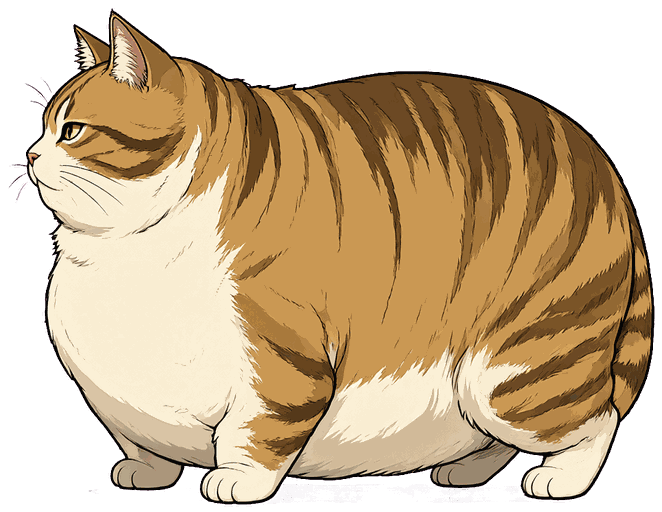
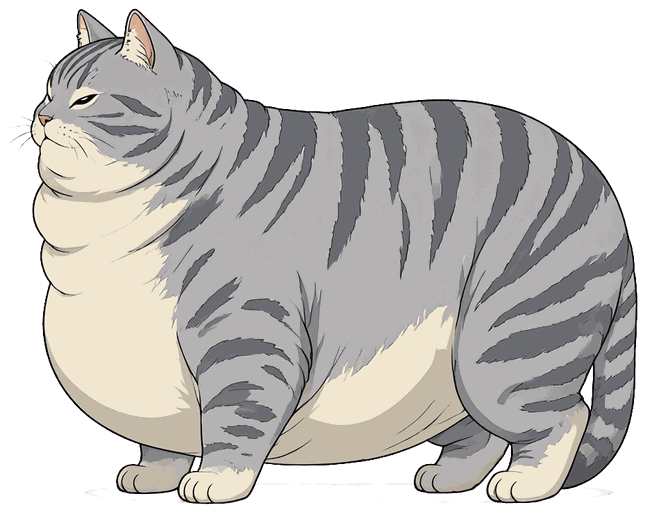
food sprites (cream outline ring for dark-bg visibility) + gray-locked tabby chain 20-80lb
- 9 food item sprites drawn at 40px in drawItems (emoji fallback kept); items carry content key; power glow widened
- tabby chain drifted tan in the ramp regen: color-lock prompt (COOL GRAY, NOT tan/brown/orange) + drift words in negative; ramp stays monotonic
- gen_sprites.py: food + tabby jobs

diff --git a/js/main.js b/js/main.js
@@ -255,7 +255,7 @@ function onBarrelBurst(barrel, ball) {
   game.items.push({
     x: barrel.x, y: barrel.y,
     vx: (Math.random() - 0.5) * 150, vy: (-60 - Math.random() * 90) * pop,
-    r: 9, state: 'fall', cal: c.cal, icon: c.icon, name: c.name,
+    r: 9, state: 'fall', cal: c.cal, icon: c.icon, name: c.name, content: barrel.content,
     grav: c.grav, drift: c.drift, power: c.power || null,
     t: 0, gone: false,
   });
@@ -601,12 +601,18 @@ function drawItems() {
   ctx.textAlign = 'center'; ctx.textBaseline = 'middle';
   for (const it of game.items) {
     if (it.power) { // golden glow for power-ups
-      ctx.fillStyle = 'rgba(255,193,7,0.35)';
-      ctx.beginPath(); ctx.arc(it.x, it.y, 15, 0, 7); ctx.fill();
+      ctx.fillStyle = 'rgba(255,193,7,0.45)';
+      ctx.beginPath(); ctx.arc(it.x, it.y, 17, 0, 7); ctx.fill();
     }
     // tiny shadow
     ctx.fillStyle = 'rgba(0,0,0,0.10)';
     ctx.beginPath(); ctx.ellipse(it.x, it.y + 10, 8, 3, 0, 0, 7); ctx.fill();
+    const key = 'food_' + it.content;
+    if (typeof Assets !== 'undefined' && Assets.ok(key)) {
+      const im = Assets.imgs[key], s = 40;
+      ctx.drawImage(im, it.x - s / 2, it.y - s / 2, s, s);
+      continue;
+    }
     ctx.fillText(it.icon, it.x, it.y);
   }
   ctx.textBaseline = 'alphabetic';

diff --git a/js/cats.js b/js/cats.js
@@ -6,7 +6,9 @@
 // Prop sprites (barrels, bowl, yarn, shooter, kitchen bg). Per-key readiness.
 const ASSET_KEYS = ['bowl', 'yarn', 'shooter', 'kitchen_bg',
   'barrel_kibble', 'barrel_salmon', 'barrel_tuna', 'barrel_broccoli', 'barrel_celery',
-  'barrel_multi', 'barrel_wide', 'barrel_slow', 'barrel_magnet'];
+  'barrel_multi', 'barrel_wide', 'barrel_slow', 'barrel_magnet',
+  'food_kibble', 'food_salmon', 'food_tuna', 'food_broccoli', 'food_celery',
+  'food_multi', 'food_wide', 'food_slow', 'food_magnet'];
 const Assets = {
   imgs: (typeof Image === 'function') ? Object.fromEntries(ASSET_KEYS.map(k => {
     const im = new Image();

diff --git a/tools/gen_sprites.py b/tools/gen_sprites.py
@@ -184,9 +184,68 @@ def props():
     print('kitchen bg done')
     print('PROPS DONE')
 
+def food():
+    ITEMS = {
+      'kibble':   'a small pile of golden-brown kibble pellets, some scattered',
+      'salmon':   'a pink-orange salmon fillet with white flakes',
+      'tuna':     'a plump blue tuna fish',
+      'broccoli': 'a green broccoli head with thick stalk',
+      'celery':   'three long green celery stalks',
+      'multi':    'a glowing golden five-point star radiating light',
+      'wide':     'a golden stone bridge arch emblem glowing warm',
+      'slow':     'an antique brass pocket clock with glowing hands',
+      'magnet':   'a red horseshoe magnet crackling with blue sparks',
+    }
+    for i, (key, desc) in enumerate(ITEMS.items()):
+        prompt = ('Game asset sprite. A single crisp icon of ' + desc +
+          ', bold dark Attack on Titan anime linework, gritty cel shading, thick cream-colored outline ring around the item for visibility, '
+          'centered, isolated on solid pure magenta background, no scenery, no gradient, no shadow')
+        out = t2i(prompt, seed=6100 + i)
+        fetch(*out, f'assets/raw/food_{key}.png')
+        prep(f'assets/raw/food_{key}.png', f'assets/food_{key}.png', 48)
+        from PIL import Image
+        im = Image.open(f'assets/food_{key}.png').convert('RGBA')
+        im.quantize(colors=128, method=Image.FASTOCTREE).save(f'assets/food_{key}.png', optimize=True)
+        print(f'food {key} done')
+    print('FOOD DONE')
+
+def tabby_gray():
+    global NEG
+    NEG = ('basic, simple, 3D, duplicated limbs, duplicated legs, six legs, more than four legs, too many eyes, multiple heads, '
+           'skinny, thin, small, tiny, frail, background scenery, gradient background, shadow on the background, photorealistic, text, watermark, multiple cats, '
+           'tan fur, brown fur, orange fur, ginger fur, yellow fur, warm beige fur')
+    RAMP = {
+     20: 'a chubby cat, round belly slightly low to the ground, plump cheeks, walks normally, clearly healthy not enormous',
+     30: 'a clearly fat cat, round belly hanging low past the knees, one soft fat roll, full jowls, sturdy legs',
+     40: 'a fat cat, heavy belly sagging toward the ground, two fat rolls, thick double chin, legs noticeably short under the load',
+     50: 'a very fat cat, big soft belly pooling near the ground, several fat rolls, wide body, waddling build, small stubby legs',
+     60: 'a huge fat cat, enormous belly spreading near the ground, body clearly wider than a normal cat, tiny legs, strained posture',
+     70: 'an enormous fat cat, body wider than tall, massive belly spreading on the ground, huge fat rolls, tiny legs',
+     80: 'the most enormous chonker imaginable, a mountain of blubber, body far wider than tall, belly pooling on the ground, tiny stubby legs barely visible under the mass',
+    }
+    prev = 10
+    for lb in [20,30,40,50,60,70,80]:
+        prompt = ('Game asset sprite. This cat is a COOL GRAY tabby and must stay gray: silver-gray fur with dark charcoal stripes, pale cream belly and paws. '
+                  'NOT tan, NOT brown, NOT orange, NOT beige. '
+                  f'Transform this cat into {RAMP[lb]}. Make it clearly fatter and heavier than the input cat, one full chonk stage heavier. '
+                  'Keep EXACTLY the same Attack on Titan bold-linework anime style, line weight, gray tabby markings, '
+                  'side-view pose facing left, solid magenta background. EXACTLY four legs, two front two back.')
+        out = edit(f'chonkem_cat_w{prev}.png', prompt, seed=11000 + lb)
+        fetch(*out, f'assets/raw/cat_w{lb}.png')
+        shutil.copy(f'assets/raw/cat_w{lb}.png', os.path.expanduser(f'~/ComfyUI/input/chonkem_cat_w{lb}.png'))
+        subprocess.run([sys.executable, 'tools/sprite_prep.py', f'assets/raw/cat_w{lb}.png', f'assets/cat_w{lb}.png', '--height', '512'], check=True)
+        from PIL import Image
+        im = Image.open(f'assets/cat_w{lb}.png').convert('RGBA')
+        im.quantize(colors=128, method=Image.FASTOCTREE).save(f'assets/cat_w{lb}.png', optimize=True)
+        print(f'gray tabby {lb}lb done')
+        prev = lb
+    print('GRAY LOCK DONE')
+
 if __name__ == '__main__':
     job = sys.argv[1] if len(sys.argv) > 1 else 'cats'
     if job == 'cats': cats()
     elif job == 'props': props()
+    elif job == 'food': food()
+    elif job == 'tabby': tabby_gray()
     elif job in VARIETIES: ladder(job, VARIETIES[job], 10)
     else: sys.exit(f'unknown job: {job}')
